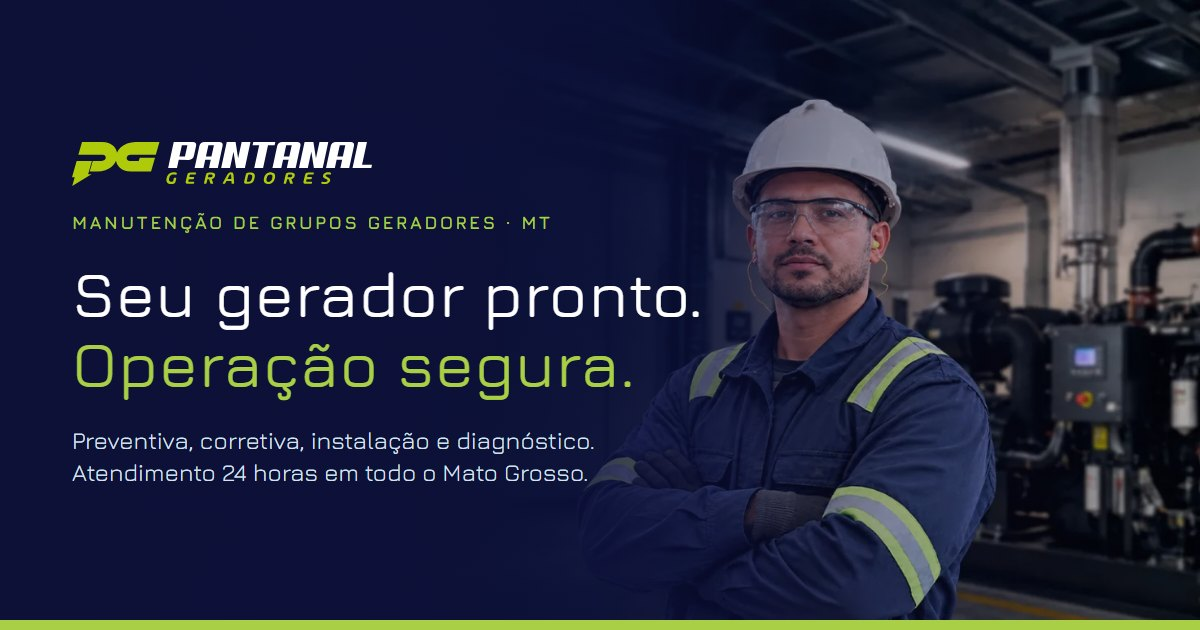
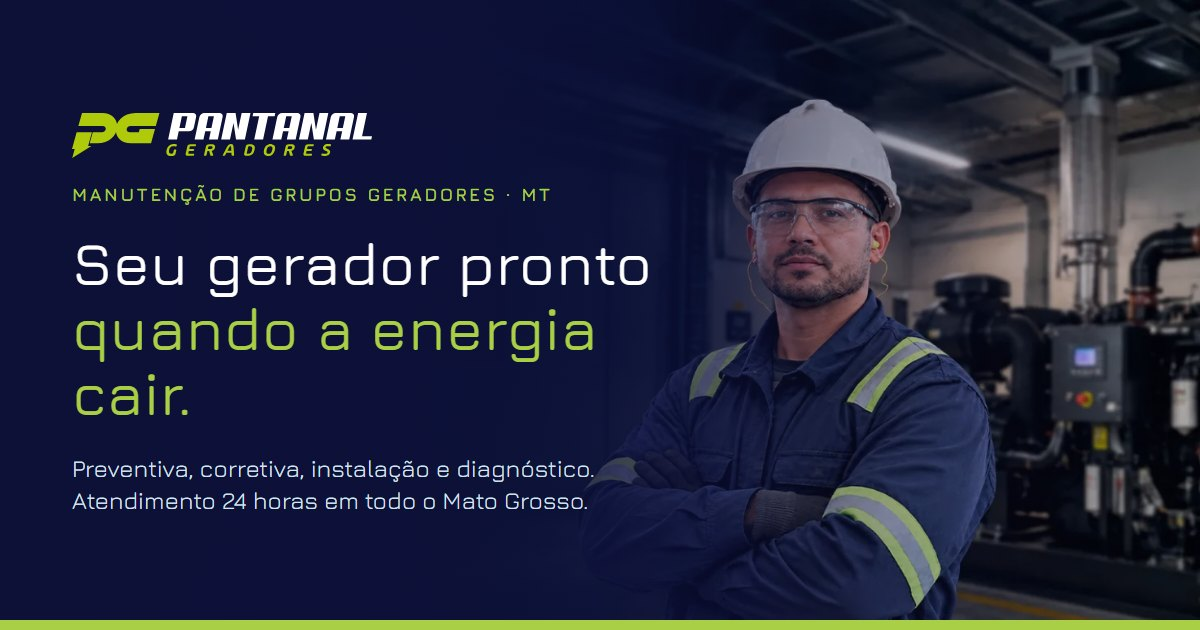
Copy de conversão sem mexer na estrutura: headline, problema, diferenciais e contato
- Headline: "Seu gerador pronto / quando a energia cair." (antes: "Operação
  segura.", que não dizia quando nem por que o gerador importa).
- Hero: linha de emergência em texto abaixo do botão ("Gerador parado agora?
  Ligue (65) 99647-9191 ou chame no WhatsApp") — telefone clicável e WhatsApp
  direto com mensagem de urgência, sem segundo botão.
- Avatares genéricos trocados por 3 miniaturas de fotos reais de trabalho
  (4 KB cada), tiradas da pasta de materiais do cliente.
- Soluções abre com o problema: "Gerador que falha na hora H custa caro."
- Benefícios vira "Por que a Pantanal": diagnóstico antes da troca,
  atendimento 24 horas, todo o Mato Grosso e sistema completo (QTA, comandos,
  retrofit). Mesmos 4 cards, conteúdo novo.
- Contato: "Prefere ligar? (65) 99647-9191", com link tel:.
- Imagem de compartilhamento e og:image:alt atualizadas com a nova headline.

Títulos novos medidos pela altura real nos três motores: 2 linhas em todas
as larguras (1920 a 360px). Sem erros, sem rolagem horizontal.

Changed region(s): [[0.0617, 0.3921, 0.5858, 0.6635], [0.0617, 0.181, 0.4625, 0.3619], [0.0617, 0.6937, 0.4933, 0.8143]]

diff --git a/index.html b/index.html
@@ -27,7 +27,7 @@
   <meta property="og:image:type" content="image/jpeg">
   <meta property="og:image:width" content="1200">
   <meta property="og:image:height" content="630">
-  <meta property="og:image:alt" content="Técnico da Pantanal Geradores em frente a um grupo gerador, com o texto: Seu gerador pronto. Operação segura.">
+  <meta property="og:image:alt" content="Técnico da Pantanal Geradores em frente a um grupo gerador, com o texto: Seu gerador pronto quando a energia cair.">
   <meta name="twitter:card" content="summary_large_image">
   <meta name="twitter:title" content="Pantanal Geradores | Manutenção de grupos geradores em Mato Grosso">
   <meta name="twitter:description" content="Preventiva, corretiva, instalação e diagnóstico de grupos geradores. Atendimento 24 horas em todo o Mato Grosso.">
@@ -182,22 +182,25 @@
         <div class="hero__heading">
           <p class="eyebrow eyebrow--light">Manutenção de grupos geradores em Mato Grosso</p>
           <h1 class="hero__title trim">
-            <span class="hero__title-strong">Seu gerador pronto.</span>
-            <span class="hero__title-accent">Operação segura.</span>
+            <span class="hero__title-strong">Seu gerador pronto</span>
+            <span class="hero__title-accent">quando a energia cair.</span>
           </h1>
         </div>
         <p class="hero__subtitle trim">Manutenção preventiva, corretiva, instalação e diagnóstico<br> de grupos geradores, com atendimento 24 horas.</p>
 
-        <a class="btn btn--primary" href="#contato">
-          <span class="trim">Solicitar orçamento</span>
-          <span class="btn__icon"><img src="assets/icons/whatsapp.svg" alt="" width="19" height="19"></span>
-        </a>
+        <div class="hero__acoes">
+          <a class="btn btn--primary" href="#contato">
+            <span class="trim">Solicitar orçamento</span>
+            <span class="btn__icon"><img src="assets/icons/whatsapp.svg" alt="" width="19" height="19"></span>
+          </a>
+          <p class="hero__urgente">Gerador parado agora? Ligue <a href="tel:+5565996479191">(65) 99647-9191</a> ou <a href="https://wa.me/" data-whatsapp data-mensagem="Olá! Meu gerador parou e preciso de atendimento urgente.">chame no WhatsApp</a>.</p>
+        </div>
 
         <div class="hero__proof">
           <div class="hero__thumbs">
-            <img src="assets/img/avatar-1.svg" alt="" width="42" height="42">
-            <img src="assets/img/avatar-2.svg" alt="" width="42" height="42">
-            <img src="assets/img/avatar-3.svg" alt="" width="42" height="42">
+            <img src="assets/img/trabalho-1.jpg" alt="" width="42" height="42">
+            <img src="assets/img/trabalho-2.jpg" alt="" width="42" height="42">
+            <img src="assets/img/trabalho-3.jpg" alt="" width="42" height="42">
           </div>
           <div class="hero__proof-text">
             <p class="trim"><strong>6 anos em todo o Mato Grosso</strong></p>
@@ -223,9 +226,9 @@
       <div class="solucoes__header">
         <div class="solucoes__titles">
           <p class="eyebrow-spaced trim">Soluções para grupos geradores</p>
-          <h2 class="section-title trim">Cuidado técnico em cada<br> etapa do seu sistema.</h2>
+          <h2 class="section-title trim">Gerador que falha<br> na hora H custa caro.</h2>
         </div>
-        <p class="solucoes__lead trim">Da revisão de rotina à resposta a falhas, a Pantanal atende indústrias, comércios, condomínios, hospitais e fazendas com método, precisão e transparência.</p>
+        <p class="solucoes__lead trim">Parado por meses, ele pode não partir quando a energia cai. A Pantanal acompanha, corrige e instala grupos geradores em indústrias, comércios, condomínios, hospitais e fazendas.</p>
       </div>
 
       <div class="solucoes__cards">
@@ -300,31 +303,31 @@
       <img class="beneficios__divisor" src="assets/icons/divisor-beneficios.svg" alt="" width="101" height="30" aria-hidden="true">
       <div class="container beneficios__inner">
         <div class="beneficios__header">
-          <p class="kicker kicker--lime trim">O que isso representa para sua empresa?</p>
-          <h2 class="section-title section-title--light trim">Mais previsibilidade.<br> Menos imprevistos.</h2>
-          <p class="beneficios__lead trim">Um sistema acompanhado de perto trabalha com mais previsibilidade e reduz surpresas na rotina da sua empresa.</p>
+          <p class="kicker kicker--lime trim">Por que a Pantanal</p>
+          <h2 class="section-title section-title--light trim">Diagnóstico preciso.<br> Equipe que resolve.</h2>
+          <p class="beneficios__lead trim">Há 6 anos cuidando de grupos geradores em todo o Mato Grosso, com o mesmo cuidado do primeiro atendimento.</p>
         </div>
 
         <div class="beneficios__cards">
           <article class="ben-card">
-            <span class="ben-card__icon"><img src="assets/icons/ben-disponibilidade.svg" alt="" width="21" height="21"></span>
-            <h3 class="trim">Disponibilidade quando precisa</h3>
-            <p class="trim">Verificações periódicas ajudam a garantir resposta rápida nos momentos críticos.</p>
-          </article>
-          <article class="ben-card">
-            <span class="ben-card__icon"><img src="assets/icons/ben-paradas.svg" alt="" width="21" height="21"></span>
-            <h3 class="trim">Paradas sob controle</h3>
-            <p class="trim">Sinais de desgaste identificados cedo, inclusive em equipamentos que ficaram meses sem uso.</p>
-          </article>
-          <article class="ben-card">
             <span class="ben-card__icon"><img src="assets/icons/ben-decisoes.svg" alt="" width="21" height="21"></span>
-            <h3 class="trim">Decisões bem orientadas</h3>
-            <p class="trim">Entenda a causa, a prioridade e o próximo passo antes de autorizar o reparo.</p>
+            <h3 class="trim">Diagnóstico antes da troca</h3>
+            <p class="trim">Localizamos a causa da falha antes de trocar qualquer peça. Você paga pelo que resolve.</p>
           </article>
           <article class="ben-card">
-            <span class="ben-card__icon"><img src="assets/icons/ben-intervencoes.svg" alt="" width="21" height="21"></span>
-            <h3 class="trim">Intervenções responsáveis</h3>
-            <p class="trim">Cuidado com equipamentos, comandos e transferência de energia em cada atendimento.</p>
+            <span class="ben-card__icon"><img src="assets/icons/mega-24h.svg" alt="" width="21" height="21"></span>
+            <h3 class="trim">Atendimento 24 horas</h3>
+            <p class="trim">Ocorrência não escolhe horário. Paradas urgentes são atendidas a qualquer hora, direto pelo WhatsApp.</p>
+          </article>
+          <article class="ben-card">
+            <span class="ben-card__icon"><img src="assets/icons/contato-local.svg" alt="" width="21" height="21"></span>
+            <h3 class="trim">Todo o Mato Grosso</h3>
+            <p class="trim">Deslocamento até a sua operação, da capital ao interior, com a mesma equipe técnica.</p>
+          </article>
+          <article class="ben-card">
+            <span class="ben-card__icon"><img src="assets/icons/mega-comando.svg" alt="" width="21" height="21"></span>
+            <h3 class="trim">Sistema completo</h3>
+            <p class="trim">Não só o motor: QTA, comandos e controladores, com retrofit quando é o caso.</p>
           </article>
         </div>
 
@@ -705,7 +708,7 @@
             <p class="kicker kicker--green trim">Contato</p>
             <h2 class="section-title trim">Seu próximo passo, com orientação.</h2>
           </div>
-          <p class="contato__lead trim">Você não precisa saber qual é o defeito. Conte o que está acontecendo e informe a sua cidade — a equipe já abre o WhatsApp com tudo pronto.</p>
+          <p class="contato__lead trim">Você não precisa saber qual é o defeito. Conte o que está acontecendo e informe a sua cidade — a equipe já abre o WhatsApp com tudo pronto. Prefere ligar? <a href="tel:+5565996479191">(65) 99647-9191</a>.</p>
 
           <form class="contato__form" id="form-contato">
             <div class="campo">

diff --git a/css/style.css b/css/style.css
@@ -382,6 +382,24 @@ section[id], header[id], footer[id] { scroll-margin-top: 110px; }
   padding-top: 84.2px;
   padding-bottom: 80px;
 }
+/* CTA principal + linha de emergência juntos: contam como um item só no espaçamento do hero */
+.hero__acoes {
+  display: flex;
+  flex-direction: column;
+  align-items: flex-start;
+  gap: 16px;
+}
+.hero__urgente {
+  font-size: 15px;
+  color: #d7e3ee;
+}
+.hero__urgente a {
+  color: var(--lime);
+  font-weight: 700;
+  text-decoration: underline;
+  text-underline-offset: 3px;
+  white-space: nowrap;
+}
 .hero__heading {
   display: flex;
   flex-direction: column;
@@ -415,9 +433,6 @@ section[id], header[id], footer[id] { scroll-margin-top: 110px; }
   border-radius: 50%;
   object-fit: cover;
 }
-.hero__thumbs img:nth-child(1) { object-position: 50% 35%; }
-.hero__thumbs img:nth-child(2) { object-position: 60% 50%; }
-.hero__thumbs img:nth-child(3) { object-position: 35% 50%; }
 .hero__thumbs img + img { margin-left: -9px; }
 /* hover: o avatar sobe um pouco e empurra os vizinhos de leve */
 .hero__thumbs img { position: relative; transition: translate .3s ease, margin-left .3s ease, scale .3s ease; }
@@ -1471,6 +1486,7 @@ section[id], header[id], footer[id] { scroll-margin-top: 110px; }
   font-size: 18px;
   color: rgba(13, 17, 56, .8);
 }
+.contato__lead a { color: var(--navy); font-weight: 700; white-space: nowrap; }
 /* nome e cidade lado a lado; "o que você precisa" e o botão na largura toda */
 .contato__form {
   display: grid;
@@ -2092,7 +2108,7 @@ section[id], header[id], footer[id] { scroll-margin-top: 110px; }
   .zap img { width: 24px; height: 24px; }
 
   /* mobile: só a hero e a Área de atendimento ficam centralizadas */
-  .hero__content, .hero__heading,
+  .hero__content, .hero__heading, .hero__acoes,
   .atendimento__conteudo, .atendimento__header {
     text-align: center;
     align-items: center;
